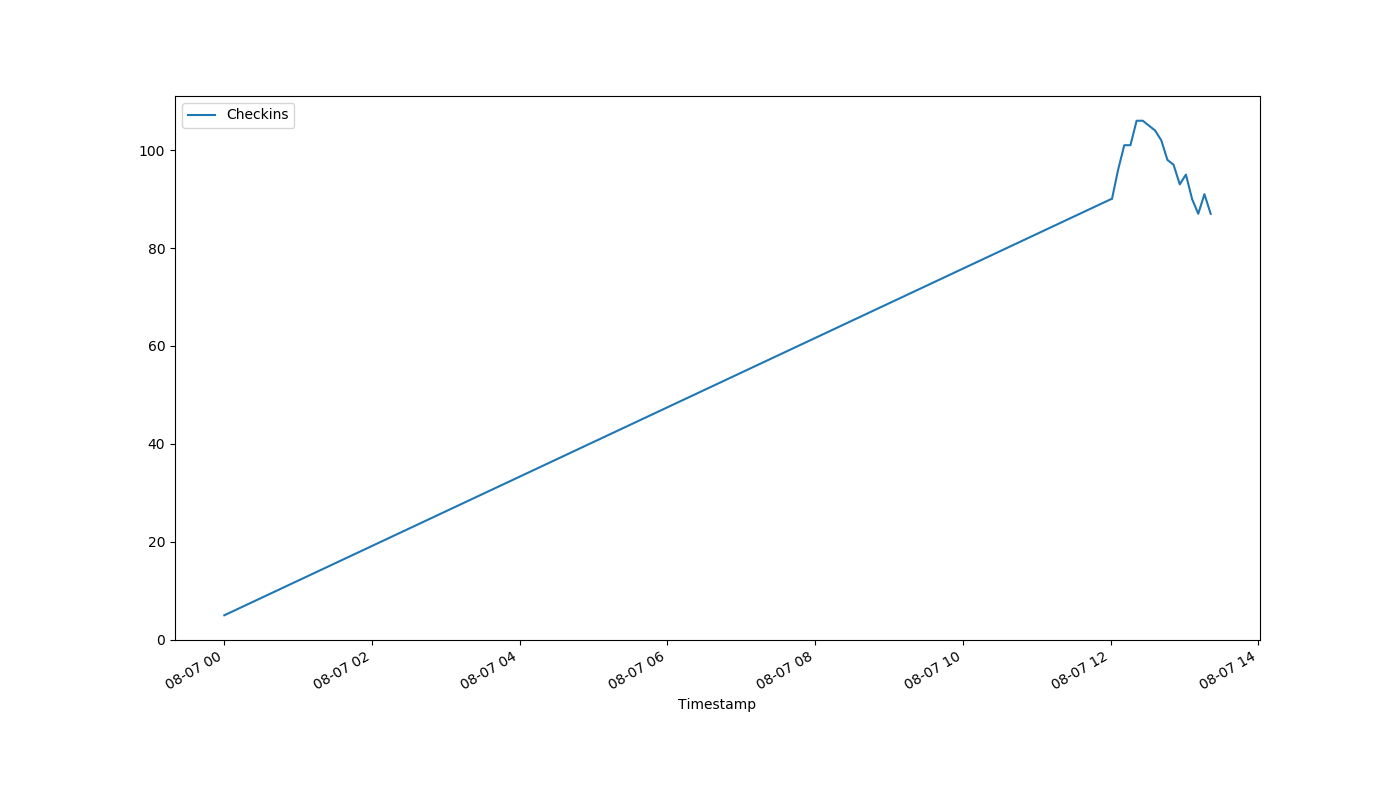
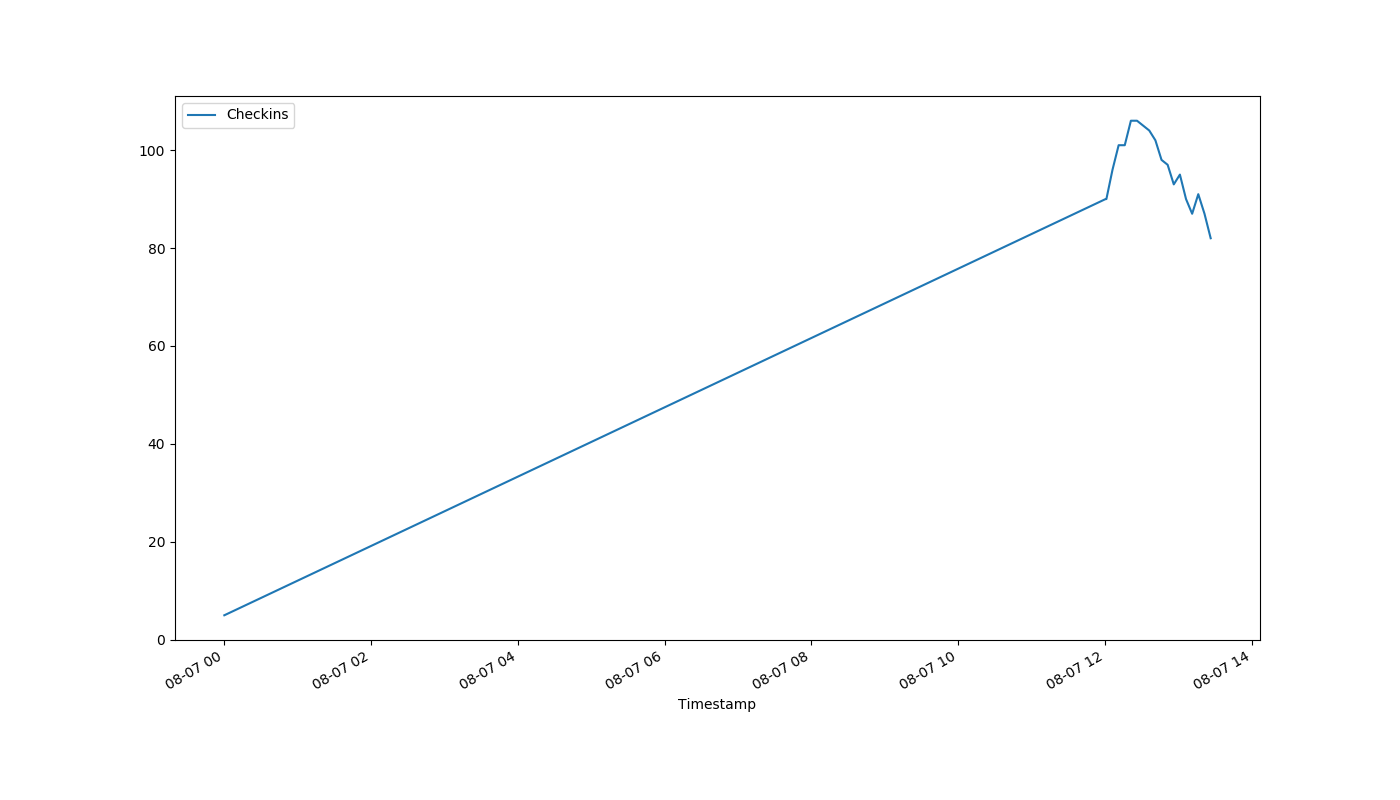
auto-Aug-07-13:28:24

diff --git a/index.html b/index.html
@@ -1,1 +1,1 @@
-<!DOCTYPE html><html><head><meta http-equiv="refresh" content="30"><link rel='stylesheet' href='holmcurrent.css'></head><body><p id='count'>87</p><div id='graph-wrap'><img id='graph' src='holmgraph-Aug-07.png'></div><p id='updated'>Last updated 13:22:12 / 13:21:11</p></body></html>
+<!DOCTYPE html><html><head><meta http-equiv="refresh" content="30"><link rel='stylesheet' href='holmcurrent.css'></head><body><p id='count'>82</p><div id='graph-wrap'><img id='graph' src='holmgraph-Aug-07.png'></div><p id='updated'>Last updated 13:27:12 / 13:26:14</p></body></html>
